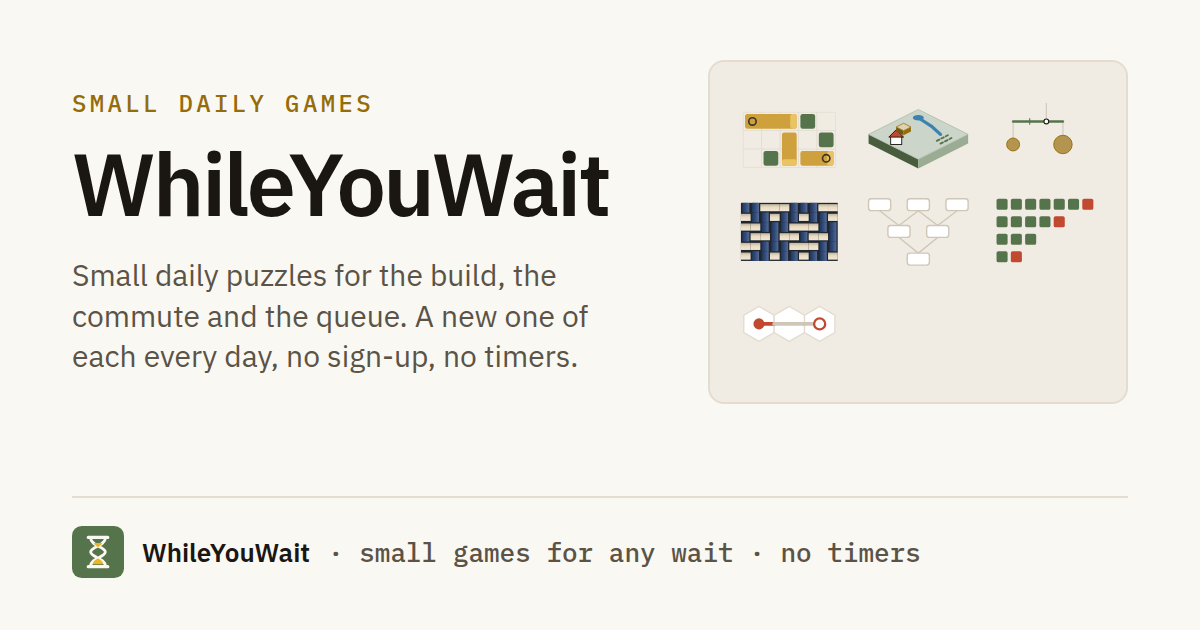
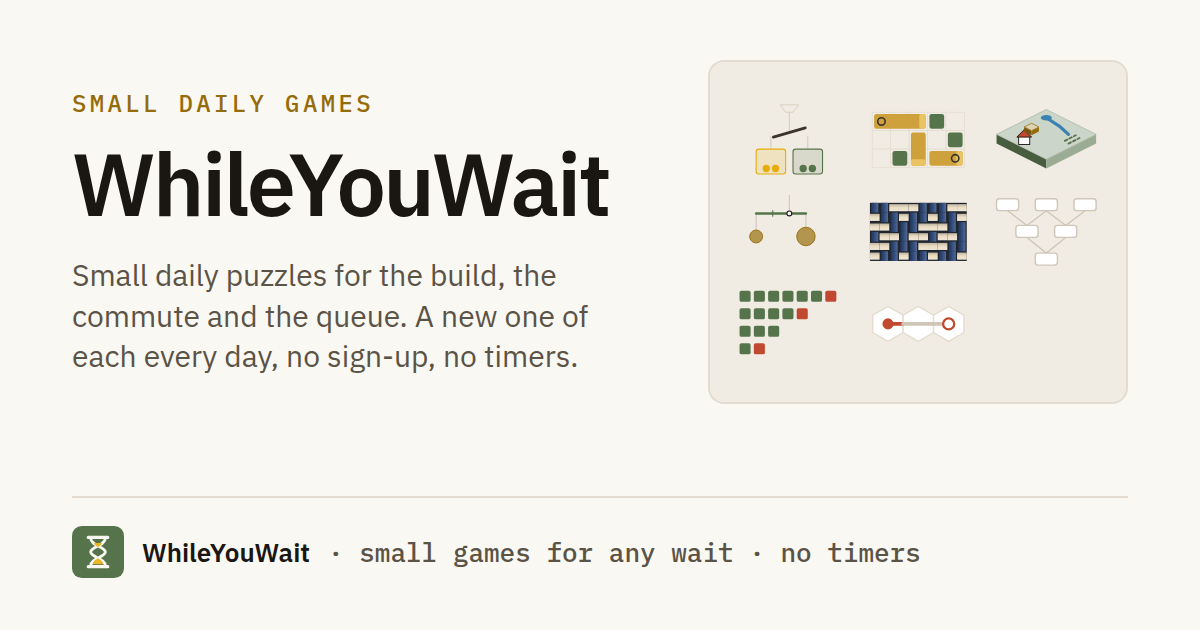
feat(web): add Chute to the catalog, lay cards out in two columns
Eight stacked cards had become a long scroll. Two columns put the art
first and fit each tag under its title.

Changed region(s): [[0.6167, 0.181, 0.925, 0.4222], [0.6167, 0.4524, 0.8017, 0.573]]

diff --git a/services/web/public/index.html b/services/web/public/index.html
@@ -61,12 +61,12 @@ body { margin: 0; background: var(--bg); color: var(--fg); font: 15px/1.5 var(--
 .eyebrow { font: 500 11px var(--font-mono); text-transform: uppercase; letter-spacing: 0.14em; color: var(--accent-ink); }
 h1 { font-weight: 600; font-size: 28px; letter-spacing: -0.02em; margin: 2px 0 6px; }
 .lede { color: var(--muted); margin: 0; max-width: 46ch; }
-.games { list-style: none; margin: 0; padding: 0; display: flex; flex-direction: column; gap: 12px; }
+.games { list-style: none; margin: 0; padding: 0; display: grid; grid-template-columns: repeat(2, minmax(0, 1fr)); gap: 10px; }
 .game { display: block; text-decoration: none; color: inherit; background: var(--tile); border: 1px solid var(--line); border-radius: var(--radius-lg); box-shadow: var(--shadow-sm); padding: 16px 18px; transition: border-color 120ms var(--ease), transform 120ms var(--ease); }
-.game { display: grid; grid-template-columns: 120px 1fr; gap: 16px; align-items: center; }
-.game .preview { grid-column: 1; grid-row: 1; }
+.game { display: grid; grid-template-columns: minmax(0, 1fr); align-content: start; gap: 8px; padding: 12px; }
+.game .preview { grid-row: 1; width: 100%; height: auto; aspect-ratio: 3 / 2; }
+.game .game-body { grid-row: 2; }
 .preview { width: 120px; height: 80px; display: block; overflow: visible; }
-@media (max-width: 440px) { .game { grid-template-columns: 88px 1fr; gap: 12px; } .preview { width: 88px; height: 59px; } }
 
 /* Card previews: one looping story per game, drawn in the site's tokens. */
 .preview .node { fill: var(--tile); stroke: var(--wire); stroke-width: 1.5; }
@@ -113,6 +113,16 @@ h1 { font-weight: 600; font-size: 28px; letter-spacing: -0.02em; margin: 2px 0 6
 @keyframes po-tilt { 0%, 30% { transform: rotate(8deg); stroke: var(--fg); } 38% { transform: rotate(-3deg); stroke: var(--fg); } 46%, 86% { transform: rotate(0deg); stroke: var(--brand); } 96%, 100% { transform: rotate(8deg); stroke: var(--fg); } }
 @keyframes po-dl { 0%, 30% { transform: translateY(-5px); } 38% { transform: translateY(1.9px); } 46%, 86% { transform: translateY(0); } 96%, 100% { transform: translateY(-5px); } }
 @keyframes po-dr { 0%, 30% { transform: translateY(2.5px); } 38% { transform: translateY(-0.9px); } 46%, 86% { transform: translateY(0); } 96%, 100% { transform: translateY(2.5px); } }
+/* Chute preview: four marbles drop in turn, and each tips the lever, so they land in alternate cups.
+   Resting frame: all four sorted. */
+.ch .lane { stroke: var(--wire); stroke-width: 1; }
+.ch .hop { fill: var(--empty); stroke: var(--wire); stroke-width: 0.8; }
+.ch .bar { stroke: var(--ink); stroke-width: 3; stroke-linecap: round; transform-origin: 60px 32px; transform: rotate(-16deg); animation: ch-tip 8s infinite; }
+.ch .a { fill: var(--amber); } .ch .s { fill: var(--brand); }
+.ch .cup { fill-opacity: 0.16; stroke-width: 1.2; } .ch .cup.a { stroke: var(--amber); } .ch .cup.s { stroke: var(--brand); }
+.ch .mb { animation: ch-fall 8s infinite backwards; animation-delay: calc(var(--d) * 1.2s); }
+@keyframes ch-tip { 0%, 13% { transform: rotate(-16deg); } 15%, 28% { transform: rotate(16deg); } 30%, 43% { transform: rotate(-16deg); } 45%, 58% { transform: rotate(16deg); } 60%, 100% { transform: rotate(-16deg); } }
+@keyframes ch-fall { 0% { opacity: 0; transform: translate(var(--tx), -62px); } 2% { opacity: 1; transform: translate(var(--tx), -62px); } 9% { opacity: 1; transform: translate(var(--tx), -42px); } 14% { opacity: 1; transform: translate(var(--lx), -41px); } 22%, 68% { opacity: 1; transform: none; } 74%, 100% { opacity: 0; transform: none; } }
 /* Timber preview: blocks stand on a small board, topple in turn, and their planks join into a path from flag to flag. */
 .tb .cellg { fill: var(--empty); stroke: var(--line); stroke-width: 0.8; }
 .tb .flag { fill: none; stroke: var(--ink); stroke-width: 1.8; }
@@ -148,15 +158,14 @@ h1 { font-weight: 600; font-size: 28px; letter-spacing: -0.02em; margin: 2px 0 6
 .game:hover { border-color: var(--wire); }
 .game:active { transform: translateY(0.5px); }
 .game:focus-visible { outline: none; box-shadow: var(--ring); }
-.game-top { display: flex; align-items: center; justify-content: space-between; gap: 12px; flex-wrap: wrap; }
-.game h2 { font-size: 19px; font-weight: 600; letter-spacing: -0.01em; margin: 0; }
-.game p { margin: 6px 0 0; color: var(--muted); }
+.game-top { display: flex; flex-direction: column; gap: 0; }
+.game h2 { font-size: 17px; font-weight: 600; letter-spacing: -0.01em; margin: 0; }
+.game p { margin: 4px 0 0; color: var(--muted); font-size: 13px; line-height: 1.4; }
 .tag { font: 500 11px var(--font-mono); text-transform: uppercase; letter-spacing: 0.12em; color: var(--muted); }
 .tag.done { color: var(--brand); }
-.games li { position: relative; }
-/* The star ends the title row, in the card's corner; the padding keeps the tag clear of it. */
-.game-top { padding-right: 30px; }
-.star { position: absolute; top: 13px; right: 8px; width: 36px; height: 36px; display: grid; place-items: center; border: 0; background: transparent; color: var(--wire); cursor: pointer; border-radius: var(--radius-md); }
+.games li { position: relative; display: grid; container-type: inline-size; }
+/* The star ends the title row, just under the art, whose height follows the card's width. */
+.star { position: absolute; top: calc(12px + (100cqw - 26px) * 2 / 3 + 2px); right: 4px; width: 36px; height: 36px; display: grid; place-items: center; border: 0; background: transparent; color: var(--wire); cursor: pointer; border-radius: var(--radius-md); }
 .star svg { width: 20px; height: 20px; fill: none; stroke: currentColor; stroke-width: 1.6; stroke-linejoin: round; }
 .star:hover { color: var(--accent-ink); }
 .star[aria-pressed="true"] { color: var(--accent-ink); } .star[aria-pressed="true"] svg { fill: currentColor; }
@@ -177,6 +186,22 @@ footer a { color: inherit; }
   <a class="your-stats" href="/stats/">Your stats →</a>
 
   <ul class="games">
+    <li><a class="game" href="/chute/" data-save="chute1-">
+      <div class="game-body">
+        <div class="game-top"><h2>Chute</h2><span class="tag">Marbles</span></div>
+        <p>Flip levers so every marble lands in a cup of its colour. Each marble tips the levers it passes, so one flip reroutes the rest.</p>
+      </div>
+      <svg class="preview ch" viewBox="0 0 120 80" aria-hidden="true">
+        <path class="hop" d="M50 2 h20 l-6 8 h-8 z"/>
+        <line class="lane" x1="60" y1="10" x2="60" y2="30"/><line class="lane" x1="40" y1="36" x2="40" y2="50"/><line class="lane" x1="80" y1="36" x2="80" y2="50"/>
+        <rect class="cup a" x="24" y="50" width="32" height="27" rx="3"/><rect class="cup s" x="64" y="50" width="32" height="27" rx="3"/>
+        <line class="bar" x1="42" y1="32" x2="78" y2="32"/>
+        <circle class="mb a" style="--d:0;--tx:25px;--lx:5px" cx="35" cy="71" r="4"/>
+        <circle class="mb s" style="--d:1;--tx:-15px;--lx:5px" cx="75" cy="71" r="4"/>
+        <circle class="mb a" style="--d:2;--tx:15px;--lx:-5px" cx="45" cy="71" r="4"/>
+        <circle class="mb s" style="--d:3;--tx:-25px;--lx:-5px" cx="85" cy="71" r="4"/>
+      </svg>
+    </a></li>
     <li><a class="game" href="/timber/" data-save="timber1-">
       <div class="game-body">
         <div class="game-top"><h2>Timber</h2><span class="tag">Blocks</span></div>

diff --git a/services/web/public/404.html b/services/web/public/404.html
@@ -20,5 +20,5 @@ a { color: var(--brand); }
   <div class="eyebrow">404</div>
   <h1>Nothing here</h1>
   <p>This page does not exist. The puzzles are on <a href="/">the catalog</a>:
-    <a href="/timber/">Timber</a>, <a href="/runoff/">Runoff</a>, <a href="/poise/">Poise</a>, <a href="/loom/">Loom</a>, <a href="/root-cause/">Root Cause</a>, <a href="/flaky/">Flaky</a> and <a href="/hexroute/">Hexroute</a>.</p>
+    <a href="/chute/">Chute</a>, <a href="/timber/">Timber</a>, <a href="/runoff/">Runoff</a>, <a href="/poise/">Poise</a>, <a href="/loom/">Loom</a>, <a href="/root-cause/">Root Cause</a>, <a href="/flaky/">Flaky</a> and <a href="/hexroute/">Hexroute</a>.</p>
 </div>
